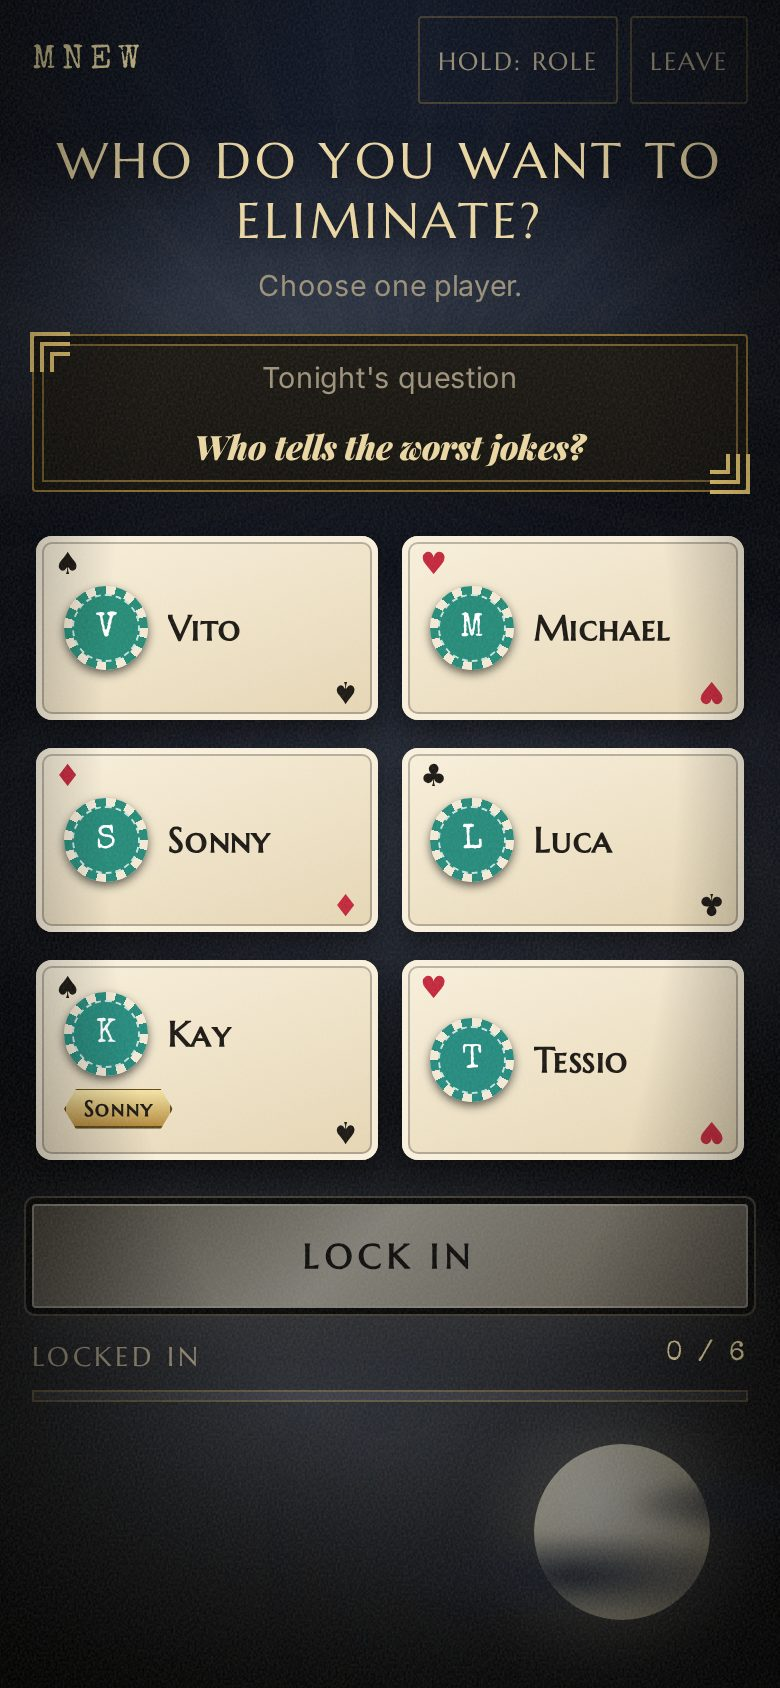
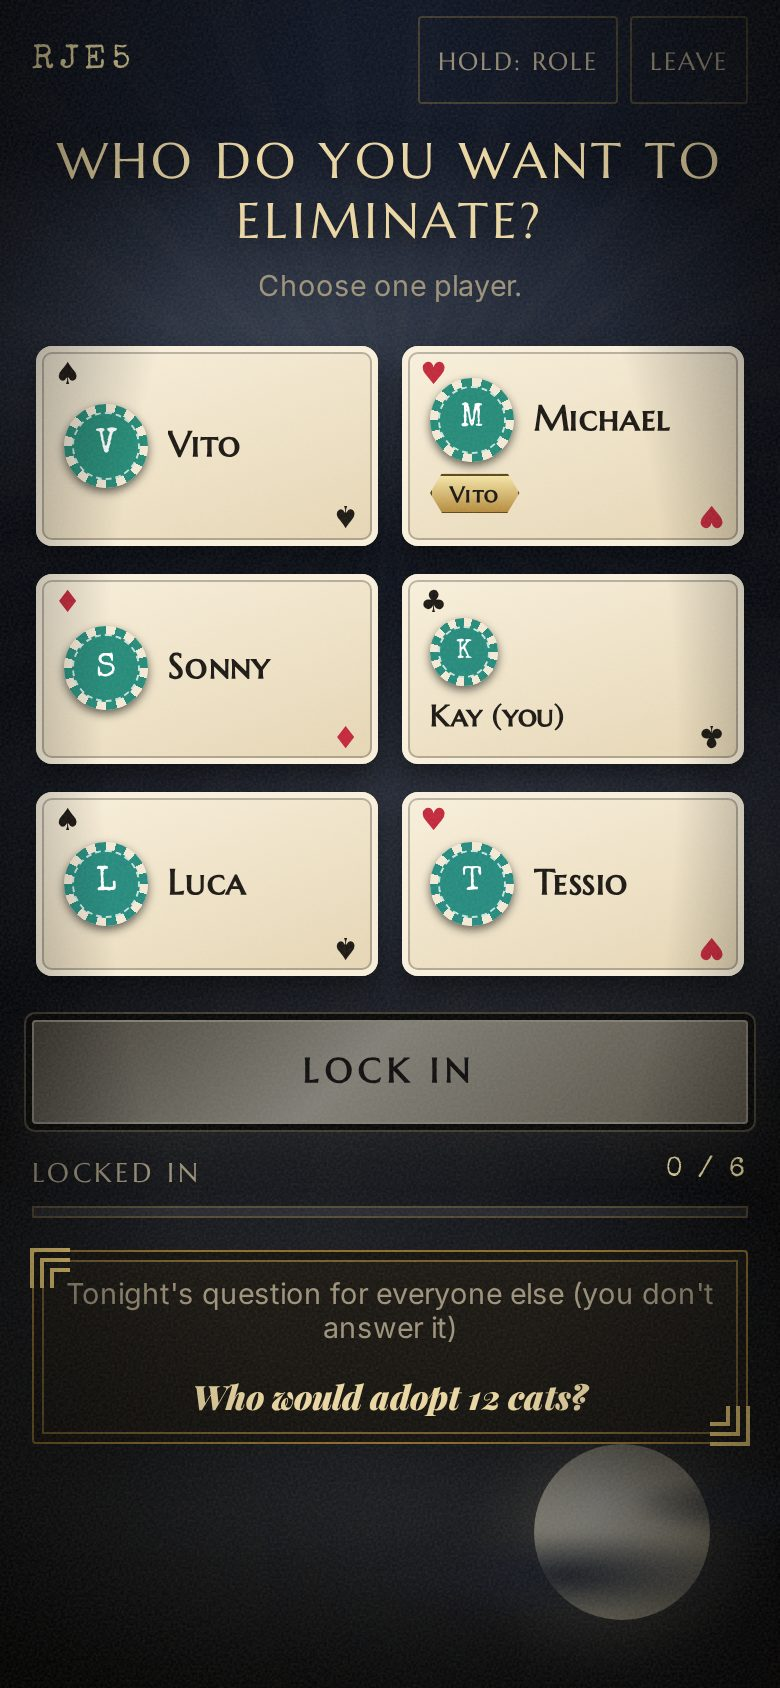
README: night questions shown to every role; refresh night and vote screenshots

diff --git a/README.md b/README.md
@@ -47,7 +47,7 @@ No app to install, no accounts, no game server. Open the site, share a four-lett
 - **Secret roles that stay secret.** Each phone only ever receives what its player is allowed to know. Roles hide themselves after a few seconds, and *Hold: role* shows yours only while pressed.
 - **Fair dealing.** Across games in the same room, everyone gets a special role about equally often, so nobody is stuck as a civilian game after game. It stays a random draw, so the history doesn't give roles away.
 - **Team nights.** Mafia, doctors and detectives see their teammates' picks live, change their minds, then lock in.
-- **Night questions.** Everyone else answers a funny question at night ("Who would adopt 12 cats?"), so every phone looks busy and nobody gives themselves away. Answers are revealed in the *Gossip Column* at the end.
+- **Night questions.** Everyone without a night action answers a funny question ("Who would adopt 12 cats?"), naming anyone at the table, themselves included. Every phone is busy and every phone shows the question (roles see it at the bottom of their screen), so nobody gives themselves away. Answers are revealed in the *Gossip Column* at the end.
 - **Ghosts stay in the game.** Dead players answer the night questions and, during the vote, see every role and every vote as it lands.
 - **Narrator mode.** Prefer a human narrator? The app deals the roles and gives the narrator a private ledger to track deaths and the winner.
 - **Built for real rooms.** Phones that sleep or reload reconnect to their seat, the host can resume an interrupted game, AFK players can be kicked, and a banner warns when phones are on different versions.
